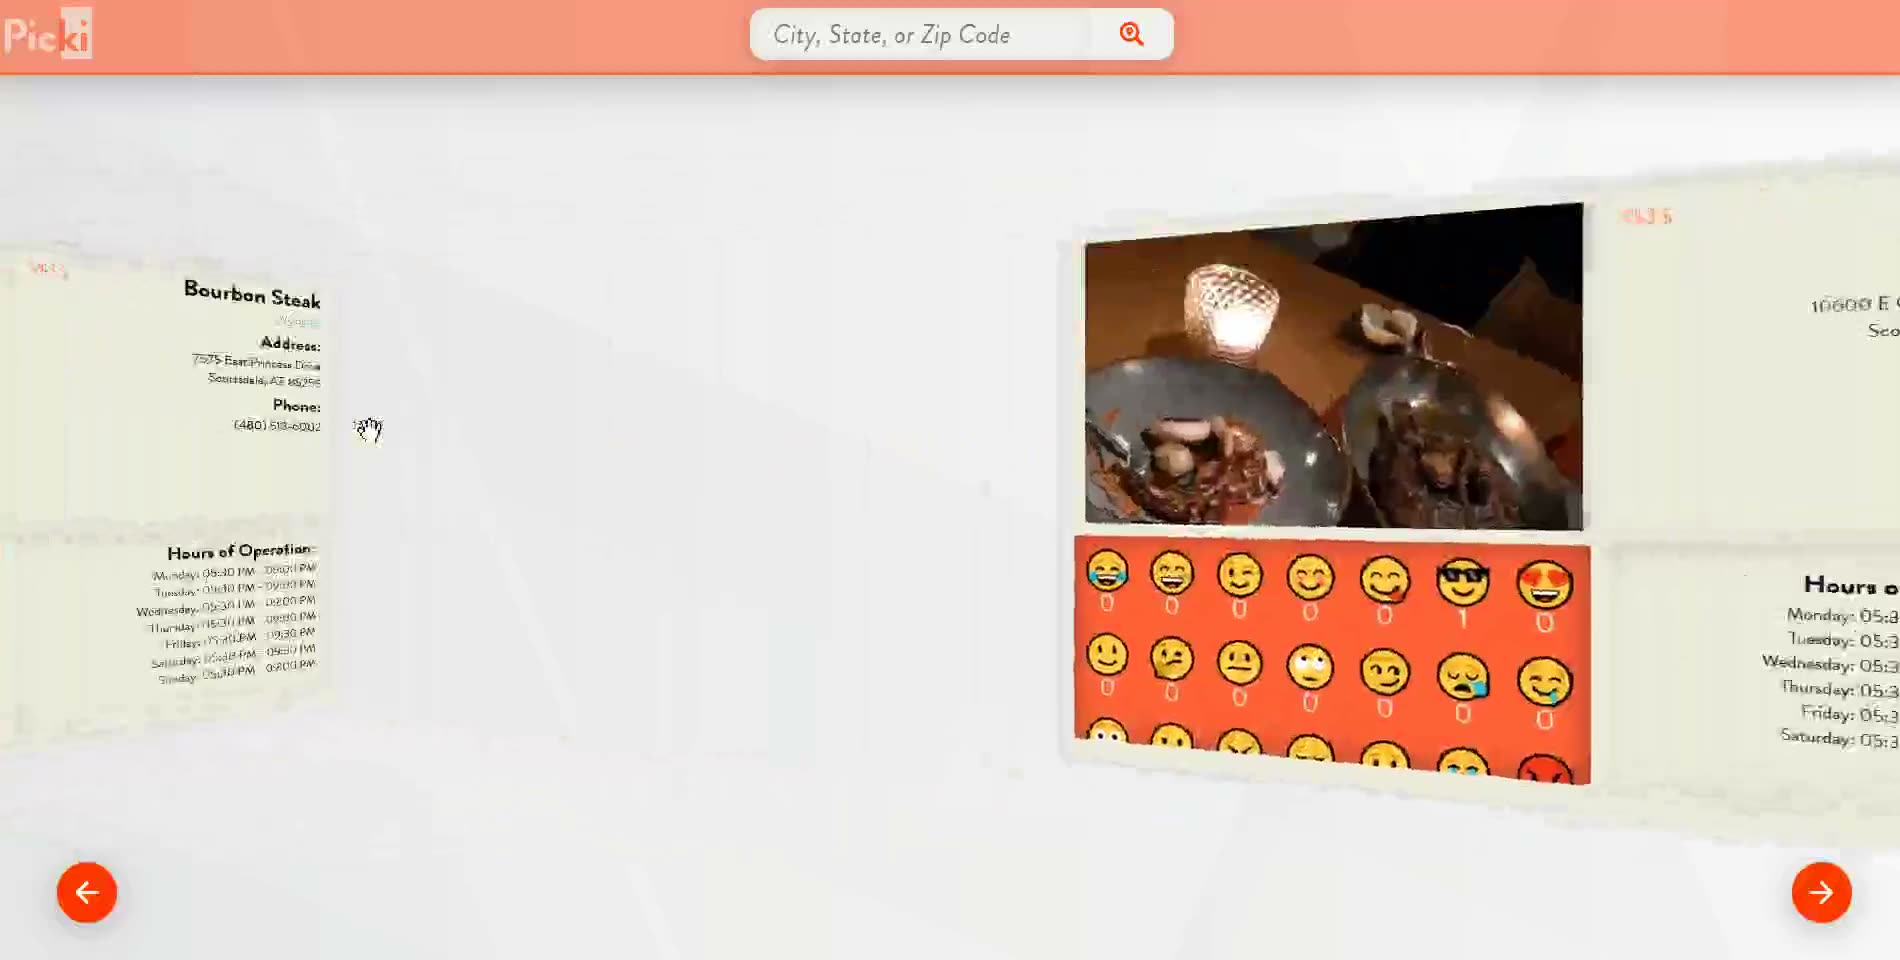
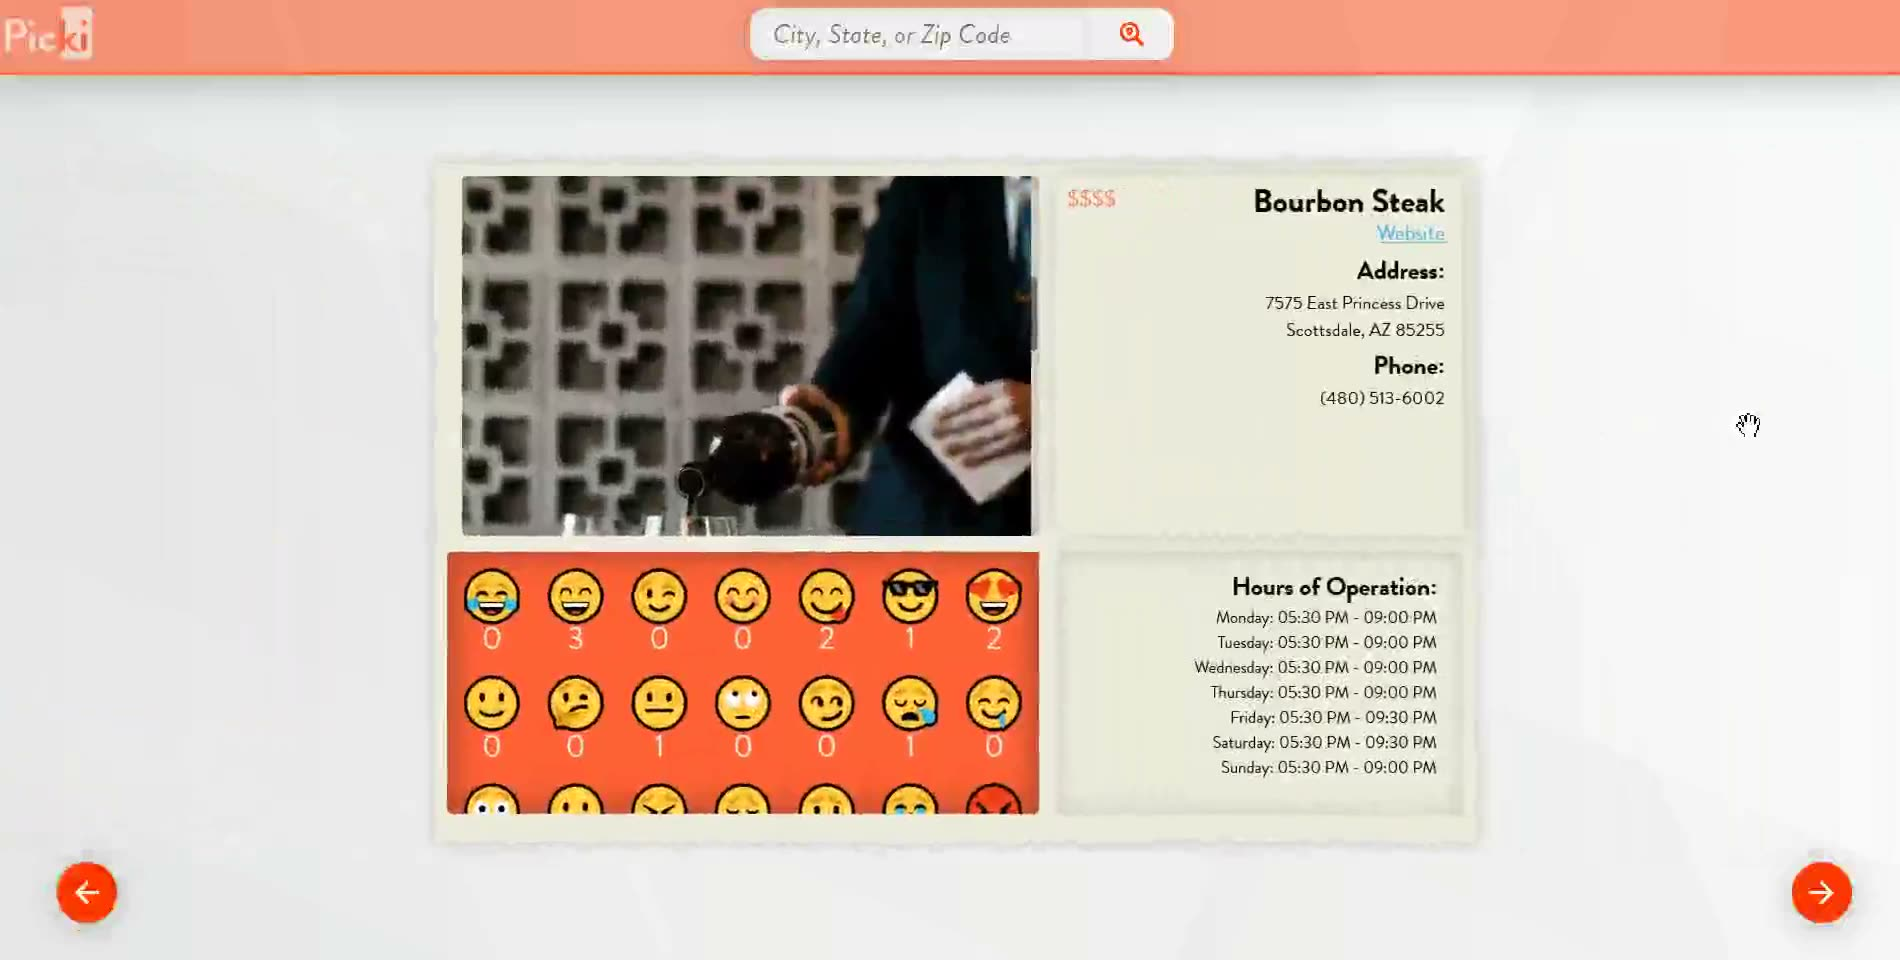
Light the hero on phones and show recordings whole
The home cloud scales by the short side, so portrait screens see its lit
edges. Project pages show each recording at its own shape. Grain is
seeded per pixel and weighted by brightness. Plus the Berine face crop,
tablet diagram room, AV list alignment, the audio ring on wide screens,
a two-up phone archive and two re-picked posters.

diff --git a/src/styles/global.css b/src/styles/global.css
@@ -386,8 +386,8 @@ p {
    card comes into view. */
 .media-flow {
   display: grid;
-  /* The wide diagram is cropped and bleeds off the right edge, so it fills
-     the 16:10 face like a poster instead of sitting as a thin strip. */
+  /* The wide diagram is cropped to its middle steps and bleeds off both
+     edges, so it fills the 16:10 face like a poster, not a thin strip. */
   place-items: center start;
   overflow: hidden;
   background:
@@ -406,7 +406,7 @@ p {
   width: 190%;
   max-width: none;
   height: auto;
-  margin-left: 4%;
+  margin-left: -45%;
 }
 
 /* No capture yet: the project's name set large, lit in its own two hues. */
@@ -498,11 +498,15 @@ p {
     grid-template-columns: 1fr 1fr;
     gap: var(--space-4);
   }
+  /* Two up, so the archive reads as secondary on a phone. */
+  .grid-archive {
+    grid-template-columns: 1fr 1fr;
+  }
 }
 
-/* The AV pieces list reads as a column, not a 72rem-wide bar. */
+/* The AV pieces list reads as a column, lined up with the prose above. */
 .pieces {
-  max-width: 48rem;
+  max-width: var(--reading-width);
 }
 
 .facts dt {
@@ -514,7 +518,11 @@ p {
   margin: 0;
 }
 
+/* On its own page a recording shows whole, at its own shape; only cards
+   crop to 16:10. */
 .project-media .media {
+  aspect-ratio: auto;
+  height: auto;
   border-radius: var(--radius);
   box-shadow: var(--raised-high);
 }
@@ -584,9 +592,13 @@ p {
 }
 
 /* An unbuilt piece sits flat and unlit: its slot, not yet a surface. */
+.pieces li > span:first-child {
+  min-height: 2.75rem;
+  display: inline-flex;
+  align-items: center;
+}
+
 .pieces li[data-status='in-progress'] {
-  min-height: calc(2.75rem + var(--space-3));
-  padding-top: var(--space-4);
   background: rgb(255 255 255 / 0.02);
   box-shadow: none;
   color: var(--ink-2);
@@ -671,7 +683,10 @@ p {
    sit there instead of leaving the row empty. */
 @media (min-width: 40rem) and (max-width: 52rem) {
   .prose .flow {
-    width: 100%;
+    width: min(
+      100vw - 2 * var(--gutter),
+      var(--page-width) - 2 * var(--gutter)
+    );
     display: grid;
     grid-template-columns: 20rem minmax(0, 1fr);
     column-gap: var(--space-8);
@@ -740,7 +755,12 @@ p {
 
 .flow-key {
   display: flex;
+  flex-wrap: wrap;
   gap: var(--space-3);
+}
+
+.flow-key > span {
+  white-space: nowrap;
 }
 
 .flow-key > span::before {

diff --git a/src/lab/experiments/audio-field.scene.ts b/src/lab/experiments/audio-field.scene.ts
@@ -15,9 +15,10 @@ uniform vec3 uHot;
 varying vec2 vUv;
 ${noiseGlsl}
 void main() {
-  // Centred low, so at rest the ring passes behind the controls, not the
-  // words. Sized by the short side, so a phone held upright keeps it whole.
-  vec2 p = (vUv - vec2(0.5, 0.38)) * uResolution / min(uResolution.x, uResolution.y);
+  // Low on a phone and right on a wide screen, so at rest the ring clears
+  // the words. Sized by the short side, so an upright phone keeps it whole.
+  vec2 c = uResolution.x > uResolution.y ? vec2(0.66, 0.4) : vec2(0.5, 0.38);
+  vec2 p = (vUv - c) * uResolution / min(uResolution.x, uResolution.y);
   float r = length(p);
   float a = atan(p.y, p.x);
   float ring = 0.18 + uBass * 0.22 + fbm(vec2(a * 3.0, uTime * 0.4)) * (0.05 + uMid * 0.2);

diff --git a/src/stage/post.ts b/src/stage/post.ts
@@ -44,7 +44,11 @@ const finishShader = {
     }
     void main() {
       vec4 color = texture2D(tDiffuse, vUv);
-      float grain = (rand(vUv * 1000.0 + fract(uTime)) - 0.5) * uGrain;
+      // Seeded per pixel, so it cannot alias into stripes. Weighted by
+      // brightness: this runs before the sRGB encode, where even a little
+      // grain on the near-black ground turns into bright static.
+      float lum = dot(color.rgb, vec3(0.2126, 0.7152, 0.0722));
+      float grain = (rand(gl_FragCoord.xy + fract(uTime) * 61.0) - 0.5) * uGrain * (0.25 + sqrt(lum));
       float d = distance(vUv, vec2(0.5));
       float vig = 1.0 - smoothstep(0.35, 0.95, d) * uVignette;
       gl_FragColor = vec4((color.rgb + grain) * vig * uFade, color.a);

diff --git a/src/stage/scenes/drift.ts b/src/stage/scenes/drift.ts
@@ -19,7 +19,9 @@ varying vec2 vUv;
 ${noiseGlsl}
 void main() {
   vec2 uv = vUv;
-  vec2 p = (uv - 0.5) * vec2(uResolution.x / uResolution.y, 1.0) * 2.4;
+  // Scaled by the short side, so a phone held upright sees the lit edges
+  // of the cloud too, not only its dark middle.
+  vec2 p = (uv - 0.5) * uResolution / min(uResolution.x, uResolution.y) * 2.4;
   p += uPointer * 0.25;
   float t = uTime * 0.06;
   vec2 q = vec2(fbm(p + t), fbm(p + vec2(5.2, 1.3) - t));

diff --git a/docs/ui-refine-2026-11-18.md b/docs/ui-refine-2026-11-18.md
@@ -188,6 +188,25 @@ The same reviewer brief on the round-3 build: 24/32, no P0 or P1, five P2s, six 
   - Recasing role titles. That is his copy; it is listed under questions.
 - **Undo:** revert the commit.
 
+## Critique, round 5
+
+The same reviewer brief on the round-4 build: 29/32, no P0 or P1, two P2s, nine P3s.
+
+### 17. A lit hero on phones, recordings shown whole, quieter grain
+
+- **What:** the home cloud was scaled by screen height, so an upright phone or tablet saw only its dark middle: a black first screen (in the `before` captures too). It is scaled by the short side now, so portrait screens see its lit edges. Desktop is unchanged.
+- **What:** on a project page, each recording was cropped to 16:10, though the clips are about 2:1, so buttons and sidebars were cut mid-word. A recording now shows whole at its own shape; cards still crop to 16:10.
+- **What:** the post grain was added before the sRGB encode and seeded from a scaled UV. On the near-black ground that made bright, striped static. The grain is now seeded per pixel and weighted by brightness. It stays visible on lit areas and settles on the ground.
+- **What (P3s):**
+  - The Berine card face crops to the diagram's middle steps (Queue, Claim, Verify, Check the edit), so all three actor colours show and nothing sits empty.
+  - On a tablet, the diagram panel breaks out of the prose like on desktop, so its caption has room, and the key wraps whole.
+  - The AV piece list lines up with the prose, and built and in-progress rows share one rhythm.
+  - On a wide screen, the audio ring sits right of the words.
+  - On a phone, the archive is two-up.
+  - The Picki and Campaign Builder posters were re-picked: a settled card, and the banner with the product grid.
+- **Rejected for tonight, listed under ideas:** stills per AV piece, and a two-column About on desktop. Each is a layout change beyond a refine pass.
+- **Undo:** revert the commit.
+
 ## Questions only Sean can answer
 
 Nothing below was invented or changed; each waits on him.
@@ -211,6 +230,8 @@ Nothing below was invented or changed; each waits on him.
 ## Ideas for Sean (not built)
 
 - **/work as a set list.** The first design review suggested letting the work lead harder: the AV pieces running live behind one large title per project, scrolling like a set list, or a "now" block with an archive list whose clips play on hover. That is a redesign of the page layer, so it is left for him.
+- **AV piece stills.** The five live pieces are text rows. A still per piece, captured from its subdomain, would let the most visual work show itself (an optional `still` field on each piece).
+- **About on desktop.** One reading column runs down the left of a wide page. A sticky intro beside the roles would use the width.
 - **The found game.** Should "N of 13 found" stay hidden until the first find, then arrive with a spring, instead of greeting a stranger with "0"? It is now explained in the footer.
 
 ## What was not checked
